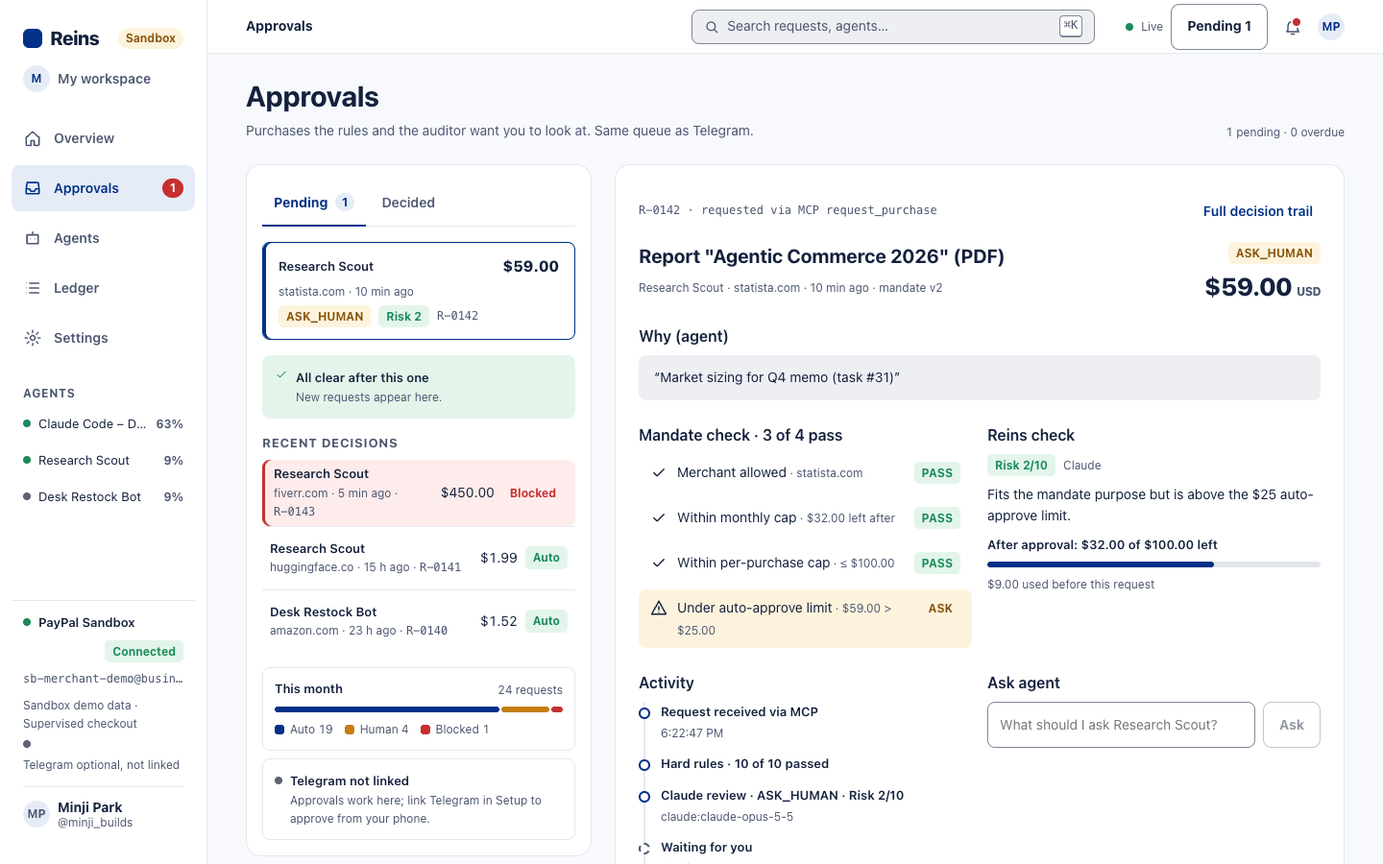
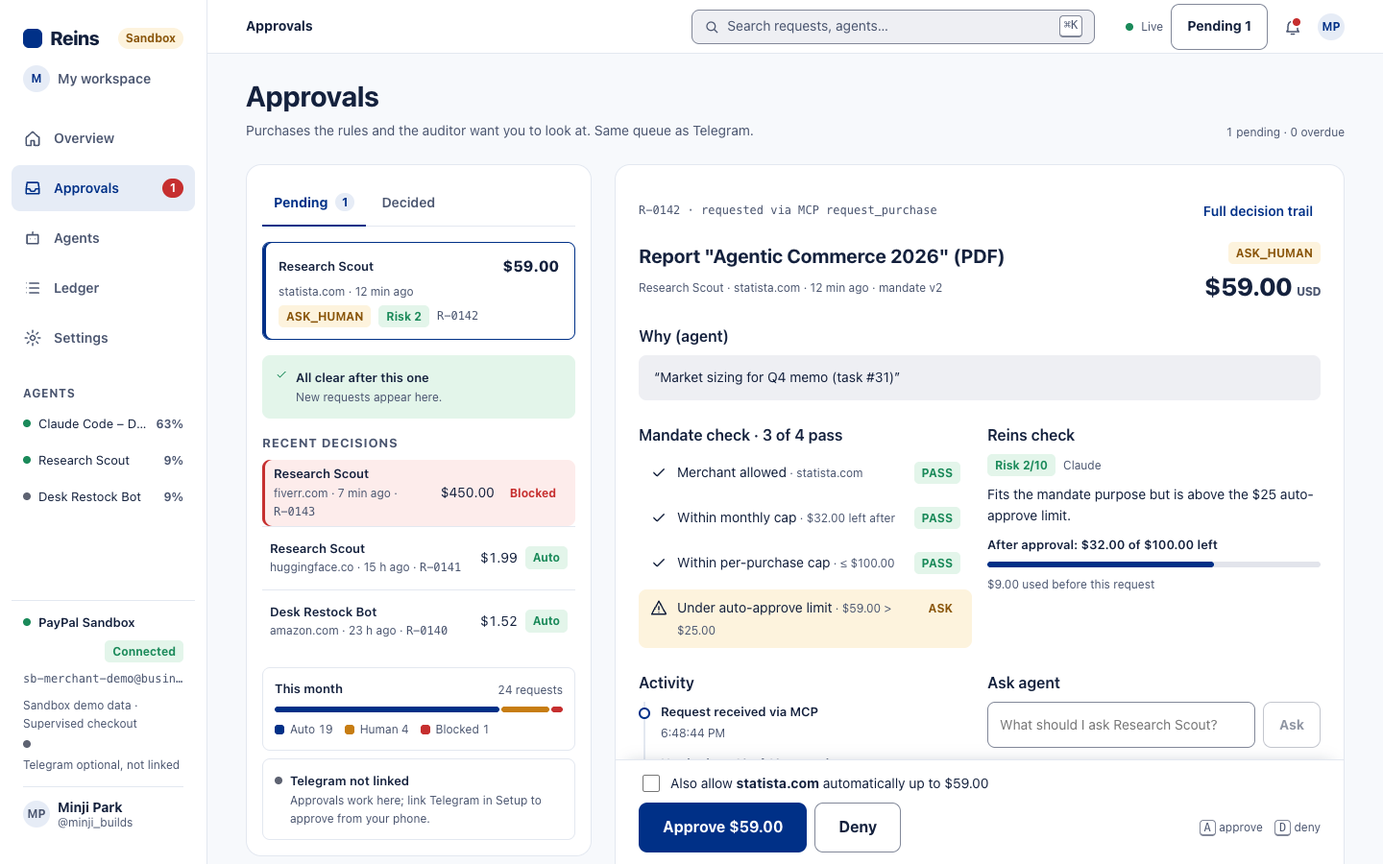
Run the Agent Toolkit gate against the real package in the sandbox; sticky approve bar on desktop
- scripts/demo/toolkit-gate-run.mjs + docs/spikes/d5-toolkit-gate.md: approved run creates a sandbox order via the real Toolkit create_order, denied run makes 0 Toolkit calls, capture refused by PayPal until buyer approval (stated as not completed)
- toolkit adapter fixes found by the real run: numeric itemCost/quantity + itemTotal, capture tool is pay_order, non-throwing error results, wrapped capture response
- Approve/Deny bar sticky at the bottom of the detail panel from 720px up, A/D hints; re-shot approval-1440 and ledger-1440
- Devpost, README, checklist, spec-matrix updated

diff --git a/packages/core/src/pay/toolkit.ts b/packages/core/src/pay/toolkit.ts
@@ -12,19 +12,35 @@ import type { Agent } from "@reins/db";
  * the Toolkit.
  *
  * Verified: unit tests with a fake Toolkit (packages/core/test/toolkit.test.ts) cover the gate, the call shape
- * and the denial path. Not verified: a run against the real @paypal/agent-toolkit package; its tool argument and
- * response shapes are assumed from its documentation. Only approval-link (supervised) orders are supported,
- * because the Toolkit's create_order has no vault_id option.
+ * and the denial path, and scripts/demo/toolkit-gate-run.mjs ran it against the real @paypal/agent-toolkit 1.11.0
+ * in the PayPal sandbox (docs/spikes/d5-toolkit-gate.md; that run fixed the argument types and the capture tool
+ * name/response shape). Only approval-link (supervised) orders are supported, because the Toolkit's create_order
+ * has no vault_id option.
  */
 export interface ToolkitLike {
   /** Same shape as PayPalAPI.run(method, args) in @paypal/agent-toolkit; the result may be a JSON string or an object. */
-  run(method: "create_order" | "capture_order", args: Record<string, unknown>): Promise<unknown>;
+  run(method: "create_order" | "pay_order", args: Record<string, unknown>): Promise<unknown>;
 }
 
 function parseResult(raw: unknown): Record<string, unknown> {
   const v = typeof raw === "string" ? (JSON.parse(raw) as unknown) : raw;
   if (!v || typeof v !== "object") throw new Error("Agent Toolkit returned an unreadable result");
+  // PayPalAPI.run() does not throw: it returns { error: { message, type } } as a JSON string
+  const err = (v as { error?: { message?: unknown } }).error;
+  if (err) throw new Error(`Agent Toolkit error: ${String(typeof err === "object" ? err.message : err).replace(/\s+/g, " ").slice(0, 300)}`);
+  // PayPal HTTP errors come back as { ok: false, status, code, message } (LlmError), also without throwing
+  const o = v as { ok?: unknown; code?: unknown; message?: unknown };
+  if (o.ok === false) throw new Error(`Agent Toolkit error ${String(o.code ?? "")}: ${String(o.message ?? "").replace(/\s+/g, " ").slice(0, 300)}`.trim());
   return v as Record<string, unknown>;
+}
+
+/** @paypal/agent-toolkit 1.11.0 exposes order capture as `pay_order` ("Process payment for an authorized order"). */
+export const CAPTURE_TOOL = "pay_order" as const;
+
+/** The Toolkit wraps a capture as { status: "success", response: <PayPal order> }; accept a bare order too. */
+function unwrapCapture(res: Record<string, unknown>): Order {
+  const inner = res.response;
+  return (inner && typeof inner === "object" ? inner : res) as Order;
 }
 
 /**
@@ -45,7 +61,7 @@ export function toolkitPayPalClient(toolkit: ToolkitLike, base: PayPalClient): P
       const res = parseResult(
         await toolkit.run("create_order", {
           currencyCode: unit.amount.currency_code,
-          items: [{ name: (unit.description ?? "Reins purchase").slice(0, 127), quantity: "1", itemCost: unit.amount.value }],
+          items: [{ name: (unit.description ?? "Reins purchase").slice(0, 127), quantity: 1, itemCost: Number(unit.amount.value), itemTotal: Number(unit.amount.value) }],
           ...(ctx?.return_url ? { returnUrl: ctx.return_url } : {}),
           ...(ctx?.cancel_url ? { cancelUrl: ctx.cancel_url } : {}),
         }),
@@ -55,8 +71,7 @@ export function toolkitPayPalClient(toolkit: ToolkitLike, base: PayPalClient): P
       return { id: res.id, status: (res.status as Order["status"]) ?? "CREATED", links, purchase_units: [{ ...unit }] };
     },
     async captureOrder(orderId: string): Promise<Order> {
-      const res = parseResult(await toolkit.run("capture_order", { id: orderId }));
-      return res as unknown as Order;
+      return unwrapCapture(parseResult(await toolkit.run(CAPTURE_TOOL, { id: orderId })));
     },
   };
 }
@@ -68,8 +83,8 @@ export function withToolkit(ctx: ReinsContext, toolkit: ToolkitLike): ReinsConte
 
 export interface ToolkitCall {
   tool: "create_order";
-  /** The Toolkit's own create_order arguments (currencyCode, items[{name, quantity, itemCost}]). */
-  args: { currencyCode?: string; items: Array<{ name: string; quantity?: string | number; itemCost: string | number }> };
+  /** The Toolkit's own create_order arguments (currencyCode, items[{name, quantity, itemCost, itemTotal}]). */
+  args: { currencyCode?: string; items: Array<{ name: string; quantity?: string | number; itemCost: string | number; itemTotal?: string | number }> };
   /** What the Toolkit call cannot say: who is paid and why. */
   merchant: string;
   reason: string;
@@ -99,6 +114,6 @@ export async function reinsGate(ctx: ReinsContext, agent: Agent, toolkit: Toolki
 
 /** Capture an order the buyer approved, through the Toolkit's capture_order. */
 export async function captureViaToolkit(toolkit: ToolkitLike, orderId: string) {
-  const order = parseResult(await toolkit.run("capture_order", { id: orderId })) as unknown as Order;
+  const order = unwrapCapture(parseResult(await toolkit.run(CAPTURE_TOOL, { id: orderId })));
   return { order, captureId: firstCapture(order)?.id };
 }

diff --git a/packages/core/test/toolkit.test.ts b/packages/core/test/toolkit.test.ts
@@ -11,7 +11,8 @@ function fakeToolkit() {
       calls.push({ method, args });
       if (method === "create_order")
         return JSON.stringify({ id: "TK-ORDER-1", status: "PAYER_ACTION_REQUIRED", links: [{ rel: "payer-action", href: "https://www.sandbox.paypal.com/checkoutnow?token=TK-ORDER-1" }] });
-      return JSON.stringify({ id: args.id, status: "COMPLETED", purchase_units: [{ payments: { captures: [{ id: "TK-CAP-1", status: "COMPLETED" }] } }] });
+      // the real Toolkit wraps a capture as { status: "success", response: <order> }
+      return JSON.stringify({ status: "success", response: { id: args.id, status: "COMPLETED", purchase_units: [{ payments: { captures: [{ id: "TK-CAP-1", status: "COMPLETED" }] } }] } });
     },
   };
   return { toolkit, calls };
@@ -33,7 +34,7 @@ describe("reinsGate: Reins decides, the Agent Toolkit executes", () => {
     const { toolkit, calls } = fakeToolkit();
     const view = await reinsGate(ctx, agent, toolkit, call("statista.com", "20.00"));
     expect(calls.map((c) => c.method)).toEqual(["create_order"]);
-    expect(calls[0]!.args).toMatchObject({ currencyCode: "USD", items: [{ quantity: "1", itemCost: "20.00" }] });
+    expect(calls[0]!.args).toMatchObject({ currencyCode: "USD", items: [{ quantity: 1, itemCost: 20, itemTotal: 20 }] });
     expect(view.status).toBe("awaiting_buyer");
     expect(view.amount).toBe("20.00");
     expect(ctx.paypal.calls).not.toContain("createOrder"); // the order came from the Toolkit, not Reins' direct call
@@ -70,10 +71,20 @@ describe("reinsGate: Reins decides, the Agent Toolkit executes", () => {
     await expect(reinsGate(ctx, agent, broken, call("statista.com", "0"))).rejects.toThrow(/payable amount/);
   });
 
-  it("captures an approved order through the Toolkit capture_order", async () => {
+  it("captures an approved order through the Toolkit pay_order tool (unwraps its response)", async () => {
     const { toolkit, calls } = fakeToolkit();
     const out = await captureViaToolkit(toolkit, "TK-ORDER-1");
-    expect(calls[0]).toEqual({ method: "capture_order", args: { id: "TK-ORDER-1" } });
+    expect(calls[0]).toEqual({ method: "pay_order", args: { id: "TK-ORDER-1" } });
     expect(out.captureId).toBe("TK-CAP-1");
+  });
+
+  it("turns the Toolkit's non-throwing error results into errors (no false success)", async () => {
+    const refused: ToolkitLike = { run: async () => JSON.stringify({ ok: false, status: 422, code: "PAYPAL_API_HTTP_ERROR", message: "Payer has not yet approved the Order for payment." }) };
+    await expect(captureViaToolkit(refused, "ORDER-1")).rejects.toThrow(/not yet approved/);
+    const invalid: ToolkitLike = { run: async () => JSON.stringify({ error: { message: "itemTotal Required", type: "paypal_error" } }) };
+    const ctx = await createTestContext();
+    await setMode(ctx, "supervised");
+    const { agent } = await seedAgent(ctx);
+    expect((await reinsGate(ctx, agent, invalid, call("statista.com", "20.00"))).status).toBe("failed");
   });
 });

diff --git a/apps/web/src/app/globals.css b/apps/web/src/app/globals.css
@@ -507,7 +507,17 @@ select.select-version { width: auto; min-width: 150px; font-weight: 700; color: 
 /* C2-7: one tap on a phone. The approve bar is pinned to the bottom of the viewport the whole time the pending request is on screen,
    so Approve $X is visible without scrolling past the queue and the mandate check. The page gets bottom padding so nothing hides behind it. */
 .act-who { display: none; }
+/* P1: on desktop the same bar sticks to the bottom of the viewport while the detail panel is on screen, so Approve and Deny stay
+   visible at 1440x900 without scrolling past the activity log. It spans the panel edge to edge and the panel clips its corners. */
+.act-keys { margin-left: auto; display: inline-flex; gap: var(--sp-3); align-items: center; }
+@media (min-width: 720px) {
+  .panel:has(> .act-bar) { overflow: clip; padding-bottom: 0; }
+  .act-bar { position: sticky; bottom: 0; z-index: 4; background: var(--panel); border-top: 1px solid var(--line); box-shadow: 0 -8px 16px -12px rgba(0, 20, 53, 0.25);
+    margin: 0 calc(-1 * var(--component-panel-padding)); padding: var(--sp-3) var(--component-panel-padding); gap: var(--sp-2); }
+  .act-bar .act-note:not(.act-keys) { position: absolute; width: 1px; height: 1px; overflow: hidden; clip: rect(0 0 0 0); white-space: nowrap; }
+}
 @media (max-width: 719px) {
+  .act-keys { display: none; }
   .main:has(.act-bar) { padding-bottom: 168px; }
   .act-bar { position: fixed; left: 0; right: 0; bottom: 0; z-index: 8; gap: var(--sp-2); background: var(--panel); border-top: 1px solid var(--line); box-shadow: 0 -8px 16px -12px rgba(0, 20, 53, 0.3);
     padding: var(--sp-2) var(--sp-4) calc(var(--sp-3) + env(safe-area-inset-bottom)); max-height: 70vh; overflow-y: auto; }

diff --git a/apps/web/src/app/inbox/page.tsx b/apps/web/src/app/inbox/page.tsx
@@ -198,6 +198,7 @@ function Detail({
     setAlsoAllow(false);
   }, [row.request_id]);
 
+  // Keys act only while the detail panel has focus, so a stray key press elsewhere can never approve a payment.
   function onKey(e: KeyboardEvent) {
     if (busy || (e.target as HTMLElement).closest("input, textarea")) return;
     if (e.key === "a" || e.key === "A") onDecide("approve", undefined, alsoAllow);
@@ -307,7 +308,7 @@ function Detail({
         <span className="caption act-who">{row.display_id} · {row.agent_name} · {row.merchant}</span>
         {!denyOpen && (
           <div className="stack-s">
-            <label className="check-row">
+            <label className="check-row" title={`Saves mandate v${(row.mandate_version ?? 0) + 1} when you approve. Caps and block list still apply.`}>
               <input type="checkbox" checked={alsoAllow} disabled={busy} onChange={(e) => setAlsoAllow(e.target.checked)} aria-describedby={`allow-${row.request_id}`} />
               <span>
                 Also allow <b>{row.merchant}</b> automatically up to ${row.amount}
@@ -356,8 +357,9 @@ function Detail({
             <button className="btn btn-lg" disabled={busy} onClick={() => setDenyOpen(true)}>
               Deny
             </button>
-            <span className="caption act-note">
-              <kbd>A</kbd> approve · <kbd>D</kbd> deny (when this panel has focus)
+            <span className="caption act-keys" title="With the panel focused (click inside it first)">
+              <span><kbd>A</kbd> approve</span>
+              <span><kbd>D</kbd> deny</span>
             </span>
           </div>
         )}

diff --git a/docs/submission/devpost.md b/docs/submission/devpost.md
@@ -25,7 +25,7 @@ Sandbox only; the video's main run is simulated and one badged segment is a real
 | Payouts (`/v1/payments/payouts`) | Prefunded "treasury" payment mode | Yes | $1.00 batch and item SUCCESS (`docs/spikes/d3-payouts-webhooks.md`); the badged real-run segment shows a sandbox payout |
 | Webhooks (`verify-webhook-signature`) | Verify every PayPal event before storing it | Yes | Real and simulated events verified, forged request returns 401; needs a public URL, so not in the video |
 | Transaction Search (`/v1/reporting/transactions`) | Reconcile every capture against PayPal's records | No | Unit and integration tested; the sandbox app needs the Transaction Search feature enabled |
-| Agent Toolkit tools `create_order`, `capture_order` (opt-in `reinsGate`) | Run a Toolkit order only after the mandate, rules and audit pass | No | Unit-tested with a fake Toolkit; not run against the real `@paypal/agent-toolkit` package |
+| Agent Toolkit tools `create_order`, `pay_order` (capture) (opt-in `reinsGate`) | Run a Toolkit order only after the mandate and rules pass | Yes for `create_order`; capture not completed | Real `@paypal/agent-toolkit` 1.11.0: an approved request created a sandbox order through the Toolkit, a denied one made 0 Toolkit calls. Its `pay_order` capture was refused by PayPal (HTTP 422) because the buyer had not approved; that approval needs a sandbox buyer login. Run log and the four fixes it forced: `docs/spikes/d5-toolkit-gate.md` (mock auditor in that run) |
 
 ---
 
@@ -55,7 +55,7 @@ Existing "agent wallet" products (Skyfire, card-network agent tokens) solve part
 
 **How PayPal could adopt it.** The mandate (cap, auto-approve limit, allowed merchants, versioned) is a small, API-shaped object, so PayPal could offer it as a native spending-controls primitive on agent credentials, with Reins as the open reference implementation.
 
-**Roadmap.** (1) Publish `@reins/mcp` to npm so a one-line `npx` config works. (2) Production PayPal onboarding beyond sandbox. (3) Run the opt-in Agent Toolkit gate (`reinsGate`) against the real `@paypal/agent-toolkit` package in the sandbox; today it is unit-tested with a fake Toolkit.
+**Roadmap.** (1) Publish `@reins/mcp` to npm so a one-line `npx` config works. (2) Production PayPal onboarding beyond sandbox. (3) Complete a capture through the Agent Toolkit once a sandbox buyer approval is automated; the gate already creates orders through the real `@paypal/agent-toolkit` in the sandbox (`docs/spikes/d5-toolkit-gate.md`).
 
 ## How it compares
 
@@ -66,9 +66,9 @@ Existing "agent wallet" products (Skyfire, card-network agent tokens) solve part
 | AI audit with a written explanation | Yes, Claude, advisory on top of the rules | No | No |
 | Human one-tap approval (Telegram / web) | Yes | Varies | No |
 | Open source, MCP, PayPal-native | Yes, MIT-style repo, MCP server | Mostly closed, separate wallet or rails | Open source, PayPal-native |
-| Compose: gate the Toolkit | Yes, opt-in: `reinsGate` runs the Toolkit's `create_order` only after mandate, rules and audit pass (fake-Toolkit unit tests) | n/a | This is the layer being gated |
+| Compose: gate the Toolkit | Yes, opt-in: `reinsGate` runs the Toolkit's `create_order` only after mandate, rules and audit pass (run against the real Toolkit in the sandbox; unit tests too) | n/a | This is the layer being gated |
 
-**Works with the PayPal Agent Toolkit.** Reins is the policy and approval layer in front of PayPal payments. By default Reins creates the sandbox order itself; with the opt-in adapter (`packages/core/src/pay/toolkit.ts`, example in the README) an approved request is created and captured through the Toolkit's `create_order` and `capture_order`, and a denied or held request never reaches the Toolkit. Covered by unit tests with a fake Toolkit; not yet run against the real Toolkit package, and only approval-link (supervised) orders are supported.
+**Works with the PayPal Agent Toolkit.** Reins is the policy and approval layer in front of PayPal payments. By default Reins creates the sandbox order itself; with the opt-in adapter (`packages/core/src/pay/toolkit.ts`, example in the README) an approved request is created and captured through the Toolkit's `create_order` and `capture_order`, and a denied or held request never reaches the Toolkit. Run against the real `@paypal/agent-toolkit` 1.11.0 in the sandbox (`docs/spikes/d5-toolkit-gate.md`): the approved request created a PayPal order through the Toolkit's `create_order`, the denied one made zero Toolkit calls. The Toolkit's capture tool (`pay_order`) was called but PayPal refused it until the buyer approves on the sandbox login page, so a completed capture through the Toolkit is not shown. Only approval-link (supervised) orders are supported.
 
 ## What it does
 
@@ -143,7 +143,7 @@ paypal, paypal-orders-v2, paypal-payouts, paypal-webhooks, paypal-transaction-se
 ## Limits (read before judging)
 
 - The demo video's main run was recorded locally on a scratch database with the simulated PayPal client (no money moves) and the offline stand-in for the Claude auditor. One segment, badged "REAL RUN" on screen (about 10 s, exact seconds in `docs/submission/checklist.md`), is a separate recording on the real PayPal sandbox with real Claude audits. The other real sandbox calls are in the spikes above.
-- The Agent Toolkit adapter is tested with a fake Toolkit only.
+- The Agent Toolkit adapter created a sandbox order through the real `@paypal/agent-toolkit` and refused a denied one before any Toolkit call, but a capture through the Toolkit was not completed (it needs a sandbox buyer login). That run used the mock auditor.
 - `@reins/mcp` is not published to npm; use the clone-based stdio config or the hosted HTTP endpoint.
 - Free Render instances sleep after about 15 minutes and reset; open the live URL once and wait about a minute.
 - AG Grid Enterprise runs in trial mode (no licence key), so the public deploy may show the trial watermark and a console notice.
@@ -188,7 +188,7 @@ Run it locally with zero credentials: `pnpm install && cp .env.example .env && p
 
 ### Best Use of Agentic Commerce (PayPal)
 
-Reins is the control layer PayPal's supervised/automatic split implies: per-agent mandates, hard rules, an AI auditor, one-tap approval over web or Telegram, and an audit trail. It uses Orders v2 with vaulted payment for unattended purchases, Payouts for a treasury mode, signed webhooks and Transaction Search reconciliation, exposes it as an open MCP server, and can gate the PayPal Agent Toolkit's `create_order` behind the same checks (fake-Toolkit tests).
+Reins is the control layer PayPal's supervised/automatic split implies: per-agent mandates, hard rules, an AI auditor, one-tap approval over web or Telegram, and an audit trail. It uses Orders v2 with vaulted payment for unattended purchases, Payouts for a treasury mode, signed webhooks and Transaction Search reconciliation, exposes it as an open MCP server, and can gate the PayPal Agent Toolkit's `create_order` behind the same checks (run against the real Toolkit in the sandbox for `create_order`; capture not completed).
 
 ### AG Grid
 

diff --git a/docs/spec-matrix.md b/docs/spec-matrix.md
@@ -144,8 +144,11 @@ Cycle 1 (win-cycle) rows.
 | C2-8-honest-labels | Shell/Overview/Inbox | Fake PayPal never reads as a real environment | match | cycle 2: PAYPAL_ENV=fake shows "Sandbox demo data" (overview line, sidebar, Setup); offline auditor shows a "Demo auditor (offline stand-in)" chip on the Reins check card, Activity, ledger drill-down and drawer model line; Telegram unlinked reads "optional, not linked". Chip not screenshotted (seed rows are Claude-attributed; only live requests with ANTHROPIC_API_KEY empty show it). |
 | C2-9-devpost | Devpost | Target users, sourced stat, adoption path | match | cycle 2: "Who it is for and why now" (3 personas, Gartner 2028 forecasts with SD Times link fetched and quoted, PayPal adoption line, roadmap; Toolkit stated as not integrated); "Why it matters for PayPal merchants" at the top; Limits moved above "Try it out" with a pointer near the top. |
 | C2-tests | Tests | test/typecheck/lint | match | 231/231 (34 files), tsc clean, eslint clean |
-| C3-M4-toolkit | Devpost/Core | Agent Toolkit composition (Agentic Commerce) | match | cycle 3: `packages/core/src/pay/toolkit.ts` (`reinsGate`, `withToolkit`, `toolkitPayPalClient`, `captureViaToolkit`), 5 unit tests with a fake Toolkit (Toolkit create_order only after rules/mandate pass; never called on deny or hold; failure is clean). Claim limited to that: not run against the real @paypal/agent-toolkit, supervised orders only. README example, comparison row "Compose: gate the Toolkit", APIs table row |
+| C3-M4-toolkit | Devpost/Core | Agent Toolkit composition (Agentic Commerce) | match | cycle 3: `packages/core/src/pay/toolkit.ts` (`reinsGate`, `withToolkit`, `toolkitPayPalClient`, `captureViaToolkit`), 5 unit tests with a fake Toolkit (Toolkit create_order only after rules/mandate pass; never called on deny or hold; failure is clean). Supervised orders only. Cycle 4 K1: ran against the real @paypal/agent-toolkit 1.11.0 in the sandbox (`scripts/demo/toolkit-gate-run.mjs`, `docs/spikes/d5-toolkit-gate.md`): approved run created an order via Toolkit create_order, denied run made 0 Toolkit calls; capture (`pay_order`) refused 422 until the buyer approves, so not completed. The run fixed 4 wrong assumptions (numeric itemCost/quantity + required itemTotal, tool is `pay_order`, non-throwing error results, wrapped capture response). README example, comparison row "Compose: gate the Toolkit", APIs table row |
 | C3-M5-links | S5 Approvals | A shared link never shows another purchase | match | cycle 3 (inbox/page.tsx, `linkedRequest` in format.ts + test): /approvals/R-0143 shows "already decided (Blocked)" with "Open decision trail", unknown id shows "Request not found", no sticky approve bar, tab title "R-0143 decided - Reins" / "Request not found - Reins". CDP screenshots at 1440 and 390 checked |
 | C3-M5-english | Inbox/Ledger/Drawer | English-only UI on a Korean-free hero screen | match | cycle 3: reasonKo (inbox risk card, ledger detail "Audit . KO", drawer) hidden unless `<html lang="ko">` or `?lang=ko`; data kept; Telegram cards already used the English reason. docs/img approval, request-drawer 1440/390 retaken |
 | C3-M6-devpost | Devpost/README | Docs match the video | partial | cycle 3: one-clause limits line under "Why it matters", APIs table with "Verified in real sandbox" column and Orders+Vault first, sponsor text shortened, tests 238 in 35 files everywhere. Exact seconds of the real-run segment to fill after the re-record |
 | C3-tests | Tests | test/typecheck/lint | match | 238/238 (35 files), tsc clean, eslint clean |
+| C4-K1-toolkit-real | Core/Devpost | Real Agent Toolkit run | match | cycle 4: `scripts/demo/toolkit-gate-run.mjs` ran `reinsGate` against the real `@paypal/agent-toolkit` 1.11.0 in the sandbox. Approved run created an order through the Toolkit `create_order` (awaiting_buyer), denied run made 0 Toolkit calls, capture (`pay_order`) was refused by PayPal 422 until the buyer approves, so capture is stated as not completed in README, Devpost (API table, Limits, roadmap) and the spike. Log: `docs/spikes/d5-toolkit-gate.md`. Four adapter fixes found by the real run, each with a test. Devpost/README rows flipped to "Yes" for create_order only. Video V3 not yet fed with a clip of this run |
+| C4-P1-desktop-bar | S5 Approvals (1440) | Approve and Deny visible at 1440x900 | match | cycle 4 (`.act-bar` in globals.css, inbox/page.tsx): from 720 px up the footer is `position: sticky; bottom: 0` inside the detail panel (edge to edge, panel clips corners), with "Also allow", "Approve $59.00", Deny and `A` approve / `D` deny hints. CDP: 1440x900 bar bottom = 900 at scroll 0 and at the end of the page, 390x844 unchanged (fixed bar, bottom 844), no horizontal overflow at 390/800/1024/1440. A/D keys stay panel-focus only on purpose (a stray key must not approve a payment). `.main` overflow: not reproducible, `.main` scrollWidth equals clientWidth on overview/ledger/inbox/agents at 1440; the 15 px is the classic vertical scrollbar width (document 1425 with scrollbars). Re-shot `docs/img/approval-1440.png` and `ledger-1440.png` (scrolled to top, KPI tiles visible, no dev badge) from a temp DB. The 1440 video approval segment shows the old in-flow bar |
+| C4-tests | Tests | test/typecheck/lint | match | 239/239 (35 files), tsc clean, eslint clean |

diff --git a/docs/spikes/d5-toolkit-gate.md b/docs/spikes/d5-toolkit-gate.md
@@ -1,0 +1,56 @@
+# D5 Toolkit gate spike (cycle 4, K1)
+
+Question: does `reinsGate` work with the real `@paypal/agent-toolkit`, not only a fake one?
+
+Run: 2026-11-04, PayPal sandbox, `@paypal/agent-toolkit` 1.11.0 (installed with npm into a scratch directory), via
+`pnpm exec tsx --env-file=.env scripts/demo/toolkit-gate-run.mjs --work <scratch dir>`. Scratch SQLite DB, supervised
+mode, deterministic mock auditor (no Claude call in this spike; the Claude audit is covered by docs/spikes/claude-audit.md).
+The script drives the Toolkit's own `PayPalMCPToolkit.getPaypalAPIService().run(method, args)`, the same entry point the
+Toolkit's agent integrations use.
+
+## Result
+
+| Step | Outcome |
+|---|---|
+| Approved run: $12.00 at kaggle.com, inside the mandate | Reins approved it; the real Toolkit `create_order` created a sandbox order (`PAYER_ACTION_REQUIRED`); Reins moved the request to `awaiting_buyer` and stored the order id and approval link |
+| Denied run: $450 at fiverr.com, reason injected by a web page | Reins denied it (cap, monthly cap, blocked merchant, injection); Toolkit calls in this run: **0** |
+| Capture through the Toolkit (`pay_order`) on the approved order | **Not completed.** The call reached the real Toolkit and PayPal answered HTTP 422, "Payer has not yet approved the Order for payment". A sandbox capture needs the buyer to sign in on the PayPal sandbox approval page, and the run has no buyer password. The error is surfaced as an error, not as a success |
+
+Total Toolkit calls in the run: 2 (`create_order`, `pay_order`). The denied request never reached it.
+
+## Output (secrets are never printed; scratch path shortened)
+
+```
+@paypal/agent-toolkit 1.11.0, PayPal sandbox, order tools: create_order, get_order, pay_order
+
+Run 1: approved (kaggle.com, $12.00, inside the mandate and under the auto-approve limit)
+    -> Toolkit create_order({"currencyCode":"USD","items":[{"name":"R-0001 kaggle.com: Retail dataset","quantity":1,"itemCost":12,"itemTotal":12}],"returnUrl":"http://localhost:3000/pay/return?request=req_...","cancelUrl":"http://localhost:3000/pay/cancel?request=req_..."})
+    <- create_order: PAYER_ACTION_REQUIRED 3KE34883913235318
+  Reins: awaiting_buyer (Fits the mandate purpose and is within limits.); Toolkit calls in this run: 1
+  PayPal order 3KE34883913235318 (ledger payment: supervised, awaiting_buyer)
+
+Run 2: denied (fiverr.com, $450, instructed by a web page)
+  Reins: denied (Blocked by hard rules: $450.00 exceeds per-purchase cap $100.00; Spent $12.00 + this $450.00 = $462.00 > $60.00 monthly cap; fiverr.com is blocked. The request reason looks like a prompt injection from external content, not the user's intent.); Toolkit calls in this run: 0
+
+Capture through the Toolkit (the buyer has not approved on the sandbox login page yet)
+    -> Toolkit pay_order({"id":"3KE34883913235318"})
+    <- pay_order: error (HTTP 422)
+    <- capture refused: Agent Toolkit error PAYPAL_API_HTTP_ERROR: The requested action could not be performed, semantically incorrect, or failed business validation.: Payer has not yet approved the Order for payment. Please redirect the payer to the 'rel':'approve'
+
+Toolkit calls in total: 2 (create_order, pay_order)
+```
+
+## What the real run found (all fixed in `packages/core/src/pay/toolkit.ts`, with tests)
+
+The adapter was written from the Toolkit's documentation. Running the real package showed four wrong assumptions:
+
+1. `create_order` validates items with zod: `quantity` and `itemCost` must be numbers (the adapter sent strings) and `itemTotal` is required.
+2. The capture tool is named `pay_order` in 1.11.0 ("Process payment for an authorized order"), not `capture_order`.
+3. `PayPalAPI.run()` never throws. Validation failures come back as `{"error": {...}}` and PayPal HTTP errors as `{"ok": false, "status": 422, ...}`. Without a check, a refused capture looked like a success; both shapes now raise.
+4. A successful capture is wrapped as `{"status": "success", "response": <order>}`; the adapter unwraps it. This shape comes from the Toolkit source; it was not observed live because no capture succeeded.
+
+## Limits
+
+- Only approval-link (supervised) orders: the Toolkit's `create_order` has no `vault_id` option.
+- The sandbox capture was not completed (needs a buyer login); a completed capture through the Toolkit is untested live.
+- The mock auditor was used, so this spike says nothing about audit quality.

diff --git a/README.md b/README.md
@@ -162,18 +162,18 @@ Skyfire and card-network agent tokens address agent payments too. Reins differs 
 | AI audit with a written explanation | Yes, Claude, advisory on top of the rules | No | No |
 | Human one-tap approval (Telegram / web) | Yes | Varies | No |
 | Open source, MCP, PayPal-native | Yes, MIT-style repo, MCP server | Mostly closed, separate wallet or rails | Open source, PayPal-native |
-| Compose: gate the Toolkit | Yes, opt-in: `reinsGate` runs the Toolkit's `create_order` only after mandate, rules and audit pass (fake-Toolkit unit tests) | n/a | This is the layer being gated |
+| Compose: gate the Toolkit | Yes, opt-in: `reinsGate` runs the Toolkit's `create_order` only after mandate, rules and audit pass (run against the real Toolkit in the sandbox; unit tests too) | n/a | This is the layer being gated |
 
-**Works with the PayPal Agent Toolkit (opt-in, unit-tested with a fake Toolkit).** By default Reins creates the sandbox order itself. With the adapter in `packages/core/src/pay/toolkit.ts`, an approved request is created and captured through the Toolkit's `create_order` and `capture_order`; a denied or held request never reaches the Toolkit. It has not been run against the real `@paypal/agent-toolkit` package, and it supports approval-link (supervised) orders only, because the Toolkit's `create_order` has no `vault_id` option.
+**Works with the PayPal Agent Toolkit (opt-in, run against the real package in the sandbox).** By default Reins creates the sandbox order itself. With the adapter in `packages/core/src/pay/toolkit.ts`, an approved request is created through the Toolkit's `create_order` and captured with its `pay_order`; a denied or held request never reaches the Toolkit. Verified with `@paypal/agent-toolkit` 1.11.0 in the PayPal sandbox (`scripts/demo/toolkit-gate-run.mjs`, log in [docs/spikes/d5-toolkit-gate.md](docs/spikes/d5-toolkit-gate.md)): the approved request created a sandbox order through the Toolkit and the denied one made 0 Toolkit calls. The Toolkit capture call was refused by PayPal (HTTP 422) because the buyer had not approved on the sandbox login page, so a completed capture through the Toolkit is not shown. It supports approval-link (supervised) orders only, because the Toolkit's `create_order` has no `vault_id` option.
 
 ```ts
 import { reinsGate } from "@reins/core";
 
-// `toolkit` is any object with run(method, args), such as the Agent Toolkit's PayPalAPI (shape assumed from its docs).
+// `toolkit` is any object with run(method, args), such as the PayPalAPI from `new PayPalMCPToolkit(...).getPaypalAPIService()`.
 // The agent wants the Toolkit to create an order; Reins checks its mandate first.
 const view = await reinsGate(ctx, agent, toolkit, {
   tool: "create_order",
-  args: { currencyCode: "USD", items: [{ name: "Market report", quantity: "1", itemCost: "20.00" }] },
+  args: { currencyCode: "USD", items: [{ name: "Market report", quantity: 1, itemCost: 20, itemTotal: 20 }] },
   merchant: "statista.com",
   reason: "User asked for a market research report",
 });

diff --git a/docs/submission/checklist.md b/docs/submission/checklist.md
@@ -57,7 +57,8 @@
 | 영상 대본·촬영 스크립트(`scripts/demo/video-shots.mjs`) | 완료 | 2026-11-01 재녹화: 사이드바 에이전트 목록, Cmd+K로 차단 요청 이동, 요청 드로어(하드 룰 표·위험도), 새 승인 카드(체크박스+Approve), 월 합계 $176.97 반영. 이전 영상은 `.local/video/reins-demo-prev.mp4` |
 | 3분 미만, 상표·저작권 음악 없음 확인 | 완료 | 2:34(153.9초; 오프닝은 결제 완료+$450 거절 페이오프, 훅 3.4초, 엔드 카드 6초), macOS 음성 해설만, 음악 없음, 프레임 컨택트 시트로 깨진/멈춘 화면 없음 확인. 영상 파일은 커밋하지 않음(`.local/`) |
 | 월 한도 문구 단위 통일 재녹화(C2 UI-1) | 남음 | 하드 룰 문구가 "Spent $9.00 + this $450.00 = $459.00 > $100.00 monthly cap"으로 바뀜. 영상의 R-0143 드로어 프레임이 옛 문구("$91.00 of $100.00 left")라 재녹화 필요 |
-| Devpost·README 비교 표(C2 DEV-1) | 완료 | Skyfire/카드 토큰/PayPal Agent Toolkit 표. C3 M4: "Compose: gate the Toolkit" 행 추가, 옵트인 어댑터(`packages/core/src/pay/toolkit.ts`)는 가짜 Toolkit 단위 테스트까지만 검증, 실제 `@paypal/agent-toolkit` 실행은 안 함이라고 명시 |
+| 데스크톱 승인 바(C4 P1) | 완료 | 1440x900에서 Approve/Deny가 접힘 아래에 있던 문제 수정: 720px 이상에서도 상세 패널 하단에 sticky 바(A/D 힌트). `docs/img/approval-1440.png`·`ledger-1440.png` 재촬영(KPI 타일 보이게 맨 위). 영상의 승인 구간(1440)은 옛 레이아웃이라 재녹화 시 반영됨 |
+| Devpost·README 비교 표(C2 DEV-1) | 완료 | Skyfire/카드 토큰/PayPal Agent Toolkit 표. C3 M4: "Compose: gate the Toolkit" 행 추가, 옵트인 어댑터(`packages/core/src/pay/toolkit.ts`). C4 K1: 실제 `@paypal/agent-toolkit` 1.11.0으로 샌드박스에서 `create_order` 승인 1건 성공·거절 1건 Toolkit 호출 0회 확인(`docs/spikes/d5-toolkit-gate.md`). 캡처(`pay_order`)는 구매자 승인 필요로 PayPal이 422 거절 — 미완료라고 명시. Devpost 표·README 갱신 |
 | 영상 설명 정합(C3 M6) | 남음-재녹화 후 | Devpost "Limits"·README가 "본편은 가짜 PayPal 클라이언트, 'REAL RUN' 배지 구간(약 10초)만 실제 샌드박스"라고 적음. 재녹화 뒤 해당 구간의 정확한 초(mm:ss-mm:ss)를 여기와 Devpost Limits에 채울 것 |
 | 영어 전용 화면(C3 M5) | 완료 | 승인·위험 카드·원장·드로어에서 한국어 reasonKo는 `<html lang="ko">` 또는 `?lang=ko`일 때만 표시(데이터는 유지). docs/img 4장 재촬영. 영상은 재녹화 필요 |
 | 공유 링크 안전(C3 M5) | 완료 | `/approvals/R-0143`(이미 결정됨)은 "already decided (Blocked)"+결정 기록 링크, 없는 id는 "Request not found", 승인 바 숨김, 탭 제목 반영 |
